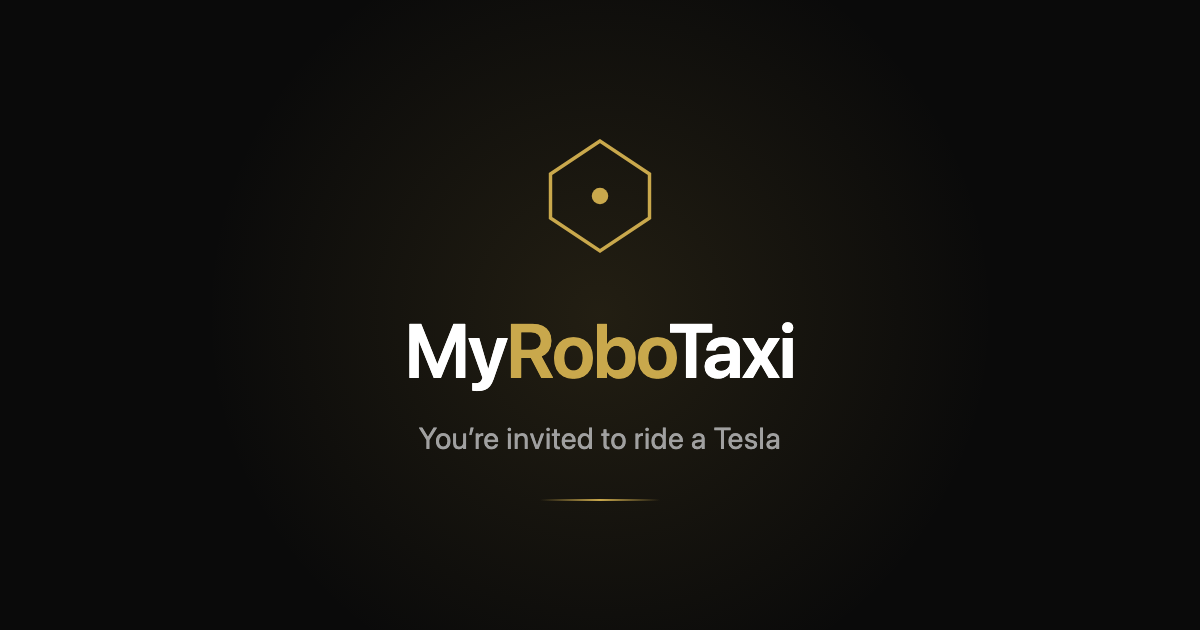
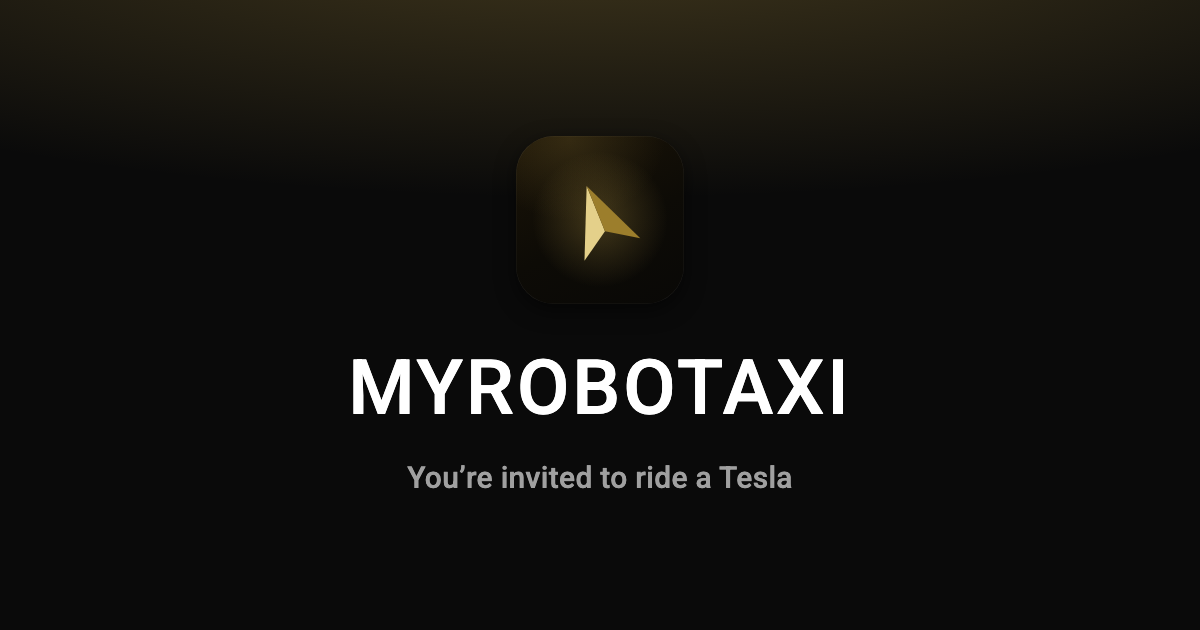
Replace the invented /join lockup with the real brand mark and wordmark (#290)
The invite landing page and its og:image shipped a logo that does not exist
in the design system: a gold hexagon outline with a center dot, over a
tri-color "My<gold>Robo</gold>Taxi" wordmark. The canonical brand
(ios-app/design/app/components.jsx:9-45) is neither of those things.

The mark is a two-tone gold facet arrow on a matte near-black tile — the
rounded-square tile at radius size*0.225, its 155deg near-black gradient, the
inset hairline, the raking gold wash, and the optional glow disc, with the
arrow at 56% of the tile. The wordmark is "myrobotaxi" set UPPERCASE via
text-transform in Roboto Medium at 0.04em, in a single color. Lockup
proportions follow the design's sign-in screen (screens.jsx:188-189, mark 62 /
wordmark 28); the glow follows its first-run screen (screens.jsx:264), so the
invite landing turns it on and sign-in leaves it off.

Both /join and /join/{code} render the same corrected lockup — they share one
component — as does the sign-in screen, which was showing the same invented
mark. The og:image art-board is rebuilt to match and regenerated at 1200x630.

Roboto Medium is loaded via next/font and applied through a `font-brand`
@utility rather than a `--font-*` theme token: next/font defines --font-roboto
on <body>, so a theme token would try to resolve it on :root, where it does
not exist, and the whole family would be invalid at computed-value time and
silently fall back to Inter. Verified in the built page — the wordmark's
[…]

Changed region(s): [[0.2775, 0.4825, 0.7092, 0.8143], [0.0617, 0.0, 0.9558, 0.0905], [0.4317, 0.2111, 0.555, 0.4222]]

diff --git a/src/components/ui/Logo.tsx b/src/components/ui/Logo.tsx
@@ -1,37 +1,88 @@
+/**
+ * Per-variant geometry for the brand lockup.
+ *
+ * Every number is derived from the design system's own ratios: the tile's
+ * corner radius is `size * 0.225`, the arrow is `size * 0.56`, the glow disc is
+ * `size * 0.92`, and the tile's drop shadow is `0 size*0.04 size*0.12`. They are
+ * spelled out as literal class strings (rather than computed into inline
+ * styles) so Tailwind's scanner emits them.
+ */
+const VARIANTS = {
+  lg: {
+    tile: 'h-[62px] w-[62px] rounded-[13.95px] shadow-[0_2.48px_7.44px_rgba(0,0,0,0.5),inset_0_0_0_0.5px_rgba(255,255,255,0.07)] mb-7',
+    glow: 'h-[57.04px] w-[57.04px]',
+    arrow: 34.72,
+    wordmark: 'text-[28px] mb-3',
+  },
+  sm: {
+    tile: 'h-[40px] w-[40px] rounded-[9px] shadow-[0_1.6px_4.8px_rgba(0,0,0,0.5),inset_0_0_0_0.5px_rgba(255,255,255,0.07)] mb-5',
+    glow: 'h-[36.8px] w-[36.8px]',
+    arrow: 22.4,
+    wordmark: 'text-[18px] mb-2',
+  },
+} as const;
+
 /** Props for the Logo component. */
 export interface LogoProps {
-  /** Size variant: 'lg' for sign-in, 'sm' for sign-up. Defaults to 'lg'. */
+  /** Size variant: 'lg' for sign-in and the invite landing, 'sm' elsewhere. */
   size?: 'lg' | 'sm';
-  /** Whether to show the branded wordmark text. Defaults to true. */
+  /** Whether to show the brand wordmark under the mark. Defaults to true. */
   showWordmark?: boolean;
+  /**
+   * Whether the mark carries its gold glow. Off by default, matching the
+   * design system's own default and its sign-in lockup; the first-run screens
+   * there turn it on.
+   */
+  glow?: boolean;
 }
 
 /**
- * MyRoboTaxi hexagonal logo with optional branded wordmark.
- * Gold hexagon outline with center dot, matching the sign-in/sign-up mock.
+ * The MyRoboTaxi brand lockup: the facet-arrow mark above the wordmark.
+ *
+ * A faithful port of the design system's `HexLogo` + `Wordmark`
+ * (`ios-app/design/app/components.jsx:9-45`); the lockup's proportions follow
+ * the sign-in screen there (`app/screens.jsx:188-189` — mark 62, wordmark 28),
+ * and the glow follows the adjacent first-run screen (`screens.jsx:264`).
+ *
+ * Two things this component must never drift back into. The mark is NOT a
+ * hexagon — `HexLogo` is a legacy name kept for its call sites, and the shape
+ * it draws is a two-tone gold arrow cut from two facets on a matte near-black
+ * tile. And the wordmark is a SINGLE color, set uppercase via text-transform;
+ * it is never camel-cased and never multi-colored.
  */
-export function Logo({ size = 'lg', showWordmark = true }: LogoProps) {
-  const iconSize = size === 'lg' ? 48 : 40;
-  const containerClass = size === 'lg' ? 'w-16 h-16 mb-8' : 'w-14 h-14 mb-6';
+export function Logo({ size = 'lg', showWordmark = true, glow = false }: LogoProps) {
+  const variant = VARIANTS[size];
 
   return (
     <div className="text-center">
-      <div className={`${containerClass} mx-auto flex items-center justify-center`}>
-        <svg width={iconSize} height={iconSize} viewBox="0 0 48 48" fill="none" aria-hidden="true">
-          <path
-            d="M24 4L6 16v16l18 12 18-12V16L24 4z"
-            stroke="#C9A84C"
-            strokeWidth="1.5"
-            fill="none"
+      <div
+        className={`${variant.tile} relative mx-auto flex shrink-0 items-center justify-center overflow-hidden bg-[linear-gradient(155deg,#1b1407_0%,#0d0b06_55%,#090806_100%)]`}
+      >
+        {/* Gold wash, raking in from the upper left. */}
+        <div className="absolute inset-0 bg-[radial-gradient(95%_80%_at_32%_2%,rgba(201,168,76,0.16),rgba(201,168,76,0)_60%)]" />
+        {glow && (
+          <div
+            className={`${variant.glow} absolute rounded-full bg-[radial-gradient(circle,rgba(201,168,76,0.28),rgba(201,168,76,0)_62%)]`}
           />
-          <circle cx="24" cy="24" r="3" fill="#C9A84C" />
+        )}
+        <svg
+          width={variant.arrow}
+          height={variant.arrow}
+          viewBox="0 0 100 100"
+          className="relative block"
+          aria-hidden="true"
+        >
+          <g transform="rotate(-22 50 50)">
+            <polygon points="50,12 50,64 18,85" fill="#E4D08A" />
+            <polygon points="50,12 82,85 50,64" fill="#9C7E2C" />
+          </g>
         </svg>
       </div>
       {showWordmark && (
-        <h1 className={`font-semibold text-text-primary tracking-tight ${
-          size === 'lg' ? 'text-3xl mb-3' : 'text-2xl mb-2'
-        }`}>
-          My<span className="text-gold">Robo</span>Taxi
+        <h1
+          className={`${variant.wordmark} font-brand font-medium uppercase leading-none tracking-[0.04em] text-text-primary`}
+        >
+          myrobotaxi
         </h1>
       )}
     </div>

diff --git a/__tests__/components/ui/Logo.test.tsx b/__tests__/components/ui/Logo.test.tsx
@@ -2,39 +2,92 @@ import { describe, it, expect } from 'vitest';
 import { render, screen } from '@testing-library/react';
 import { Logo } from '@/components/ui/Logo';
 
-describe('Logo', () => {
+/**
+ * These assertions are the guard against the brand drifting back to the
+ * invented lockup this component shipped with: a gold hexagon outline with a
+ * center dot, over a tri-color "My<gold>Robo</gold>Taxi" wordmark. Neither
+ * exists in the design system.
+ */
+describe('Logo — wordmark', () => {
   it('renders the wordmark by default', () => {
     render(<Logo />);
-    expect(screen.getByText('Robo')).toBeInTheDocument();
+    expect(screen.getByText('myrobotaxi')).toBeInTheDocument();
   });
 
-  it('renders the full brand name', () => {
+  it('sets the wordmark uppercase via text-transform, not camel case', () => {
     const { container } = render(<Logo />);
     const h1 = container.querySelector('h1');
-    expect(h1?.textContent).toBe('MyRoboTaxi');
+
+    expect(h1?.textContent).toBe('myrobotaxi');
+    expect(h1?.className).toContain('uppercase');
+  });
+
+  it('renders the wordmark in a single color — no nested spans', () => {
+    const { container } = render(<Logo />);
+    const h1 = container.querySelector('h1');
+
+    expect(h1?.querySelectorAll('span')).toHaveLength(0);
+    expect(h1?.className).toContain('text-text-primary');
+  });
+
+  it('sets the wordmark in the brand typeface at the design letter-spacing', () => {
+    const { container } = render(<Logo />);
+    const h1 = container.querySelector('h1');
+
+    expect(h1?.className).toContain('font-brand');
+    expect(h1?.className).toContain('font-medium');
+    expect(h1?.className).toContain('tracking-[0.04em]');
   });
 
   it('hides the wordmark when showWordmark is false', () => {
     const { container } = render(<Logo showWordmark={false} />);
     expect(container.querySelector('h1')).toBeNull();
   });
+});
 
-  it('renders the SVG logo', () => {
+describe('Logo — brand mark', () => {
+  it('draws the two-tone facet arrow', () => {
     const { container } = render(<Logo />);
-    const svg = container.querySelector('svg');
-    expect(svg).toBeTruthy();
-    expect(svg?.getAttribute('aria-hidden')).toBe('true');
+    const polygons = container.querySelectorAll('polygon');
+
+    expect(polygons).toHaveLength(2);
+    expect(polygons[0].getAttribute('points')).toBe('50,12 50,64 18,85');
+    expect(polygons[0].getAttribute('fill')).toBe('#E4D08A');
+    expect(polygons[1].getAttribute('points')).toBe('50,12 82,85 50,64');
+    expect(polygons[1].getAttribute('fill')).toBe('#9C7E2C');
+    expect(container.querySelector('g')?.getAttribute('transform')).toBe('rotate(-22 50 50)');
   });
 
-  it('renders at large size by default', () => {
+  it('draws no hexagon and no center dot', () => {
     const { container } = render(<Logo />);
-    const svg = container.querySelector('svg');
-    expect(svg?.getAttribute('width')).toBe('48');
+
+    expect(container.querySelector('path')).toBeNull();
+    expect(container.querySelector('circle')).toBeNull();
   });
 
-  it('renders at small size', () => {
+  it('hides the mark from assistive tech', () => {
+    const { container } = render(<Logo />);
+    expect(container.querySelector('svg')?.getAttribute('aria-hidden')).toBe('true');
+  });
+
+  it('renders the arrow at 56% of the tile at large size', () => {
+    const { container } = render(<Logo />);
+    const svg = container.querySelector('svg');
+
+    expect(svg?.getAttribute('width')).toBe('34.72');
+    expect(svg?.getAttribute('viewBox')).toBe('0 0 100 100');
+  });
+
+  it('renders the arrow at 56% of the tile at small size', () => {
     const { container } = render(<Logo size="sm" />);
-    const svg = container.querySelector('svg');
-    expect(svg?.getAttribute('width')).toBe('40');
+    expect(container.querySelector('svg')?.getAttribute('width')).toBe('22.4');
+  });
+
+  it('carries no glow by default and adds one on request', () => {
+    const withoutGlow = render(<Logo />).container.innerHTML;
+    const withGlow = render(<Logo glow />).container.innerHTML;
+
+    expect(withoutGlow).not.toContain('rounded-full');
+    expect(withGlow).toContain('rounded-full');
   });
 });

diff --git a/src/app/layout.tsx b/src/app/layout.tsx
@@ -1,5 +1,5 @@
 import type { Metadata, Viewport } from 'next';
-import { Inter } from 'next/font/google';
+import { Inter, Roboto } from 'next/font/google';
 
 import { AuthProvider } from '@/components/layout/AuthProvider';
 import './globals.css';
@@ -8,6 +8,17 @@ const inter = Inter({
   subsets: ['latin'],
   weight: ['300', '400', '500', '600', '700'],
   variable: '--font-inter',
+  display: 'swap',
+});
+
+/**
+ * The brand wordmark's typeface. The design system sets the lockup in Roboto
+ * Medium and nothing else on the site uses it, so only weight 500 is loaded.
+ */
+const roboto = Roboto({
+  subsets: ['latin'],
+  weight: ['500'],
+  variable: '--font-roboto',
   display: 'swap',
 });
 
@@ -31,7 +42,9 @@ export default function RootLayout({
 }>) {
   return (
     <html lang="en" className="dark">
-      <body className={`${inter.variable} font-sans antialiased bg-bg-primary text-text-primary`}>
+      <body
+        className={`${inter.variable} ${roboto.variable} font-sans antialiased bg-bg-primary text-text-primary`}
+      >
         <AuthProvider>{children}</AuthProvider>
       </body>
     </html>

diff --git a/src/app/globals.css b/src/app/globals.css
@@ -73,6 +73,22 @@
   --font-sans: 'Inter', -apple-system, BlinkMacSystemFont, "Segoe UI", Roboto, sans-serif;
 }
 
+/*
+ * Brand wordmark face — Roboto Medium over the design system's own stack,
+ * mirroring `"Roboto", ` + T.font from the design source
+ * (ios-app/design/app/tokens.js). Used only by the brand lockup.
+ *
+ * Declared as an @utility rather than a `--font-*` theme token on purpose:
+ * `--font-roboto` is set by next/font on <body>, so a theme token would try to
+ * resolve it on :root, where it does not exist — the whole family would then be
+ * invalid at computed-value time and silently fall back to the inherited stack.
+ * A utility resolves on the element it is applied to, which inherits the var.
+ */
+@utility font-brand {
+  font-family: var(--font-roboto), 'Roboto', -apple-system, "SF Pro Text", "SF Pro Display",
+    system-ui, sans-serif;
+}
+
 /* Base styles */
 html, body {
   height: 100%;

diff --git a/src/features/invites/components/JoinInviteScreen.tsx b/src/features/invites/components/JoinInviteScreen.tsx
@@ -26,7 +26,8 @@ export function JoinInviteScreen({ code }: JoinInviteScreenProps) {
   return (
     <main className="flex min-h-screen flex-col items-center justify-center bg-bg-primary px-6 py-12">
       <div className="w-full max-w-sm animate-fade-in text-center">
-        <Logo size="lg" />
+        {/* Glowing mark, per the design system's first-run lockup. */}
+        <Logo size="lg" glow />
 
         <h2 className="mt-2 text-xl font-semibold leading-8 text-text-primary">
           You&rsquo;re invited to ride a Tesla on MyRoboTaxi
